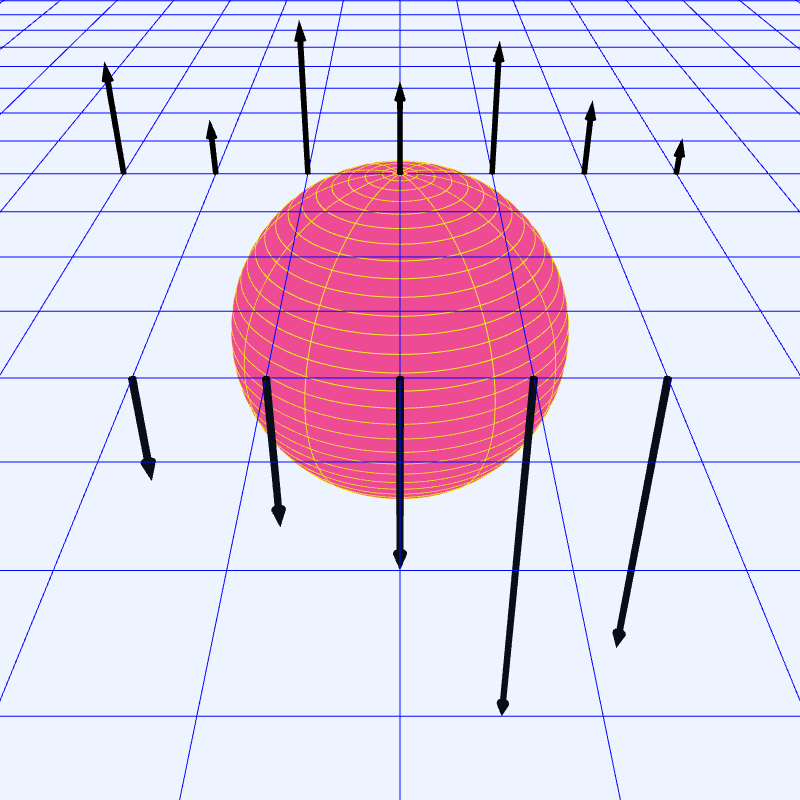
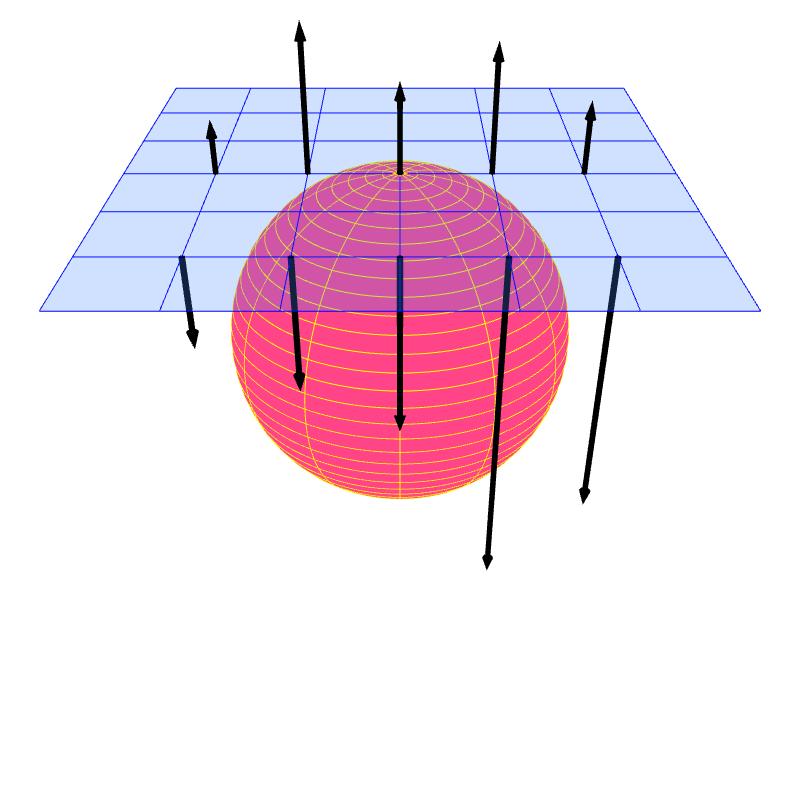
more work

diff --git a/chapter-06/index.html b/chapter-06/index.html
@@ -167,7 +167,7 @@
           <td align="center">(b)</td>
         </tr>
       </table>
-      <figcaption class="figure-caption"><strong>Figure 6.5</strong> (a) A secant plane is a plane that passes through three points on a surface. (b) A tangent plane is the limit of the secant plane when the three points are forced to approach a single point. In this case, the point is the north pole of the sphere. The tangent plane "touches" the sphere at that point.</figcaption>
+      <figcaption class="figure-caption"><strong>Figure 6.5</strong> (a) A secant plane is a plane that passes through three points on a surface. (A plane is infinitely wide, but we show only a part of it for clarity.) (b) A tangent plane is the limit of the secant plane when the three points are forced to approach a single point. In this case, the point is the north pole of the sphere. The tangent plane "touches" the sphere at that point.</figcaption>
   </figure>
 
     <p>We say that a vector $\ve{v}$ is <b>tangent</b> to a surface $S$ at point $P$ if $\ve{v}$ lies in the tangent plane at $P$. We call such a vector $\ve{v}$ a <b>tangent vector</b>.</p>
